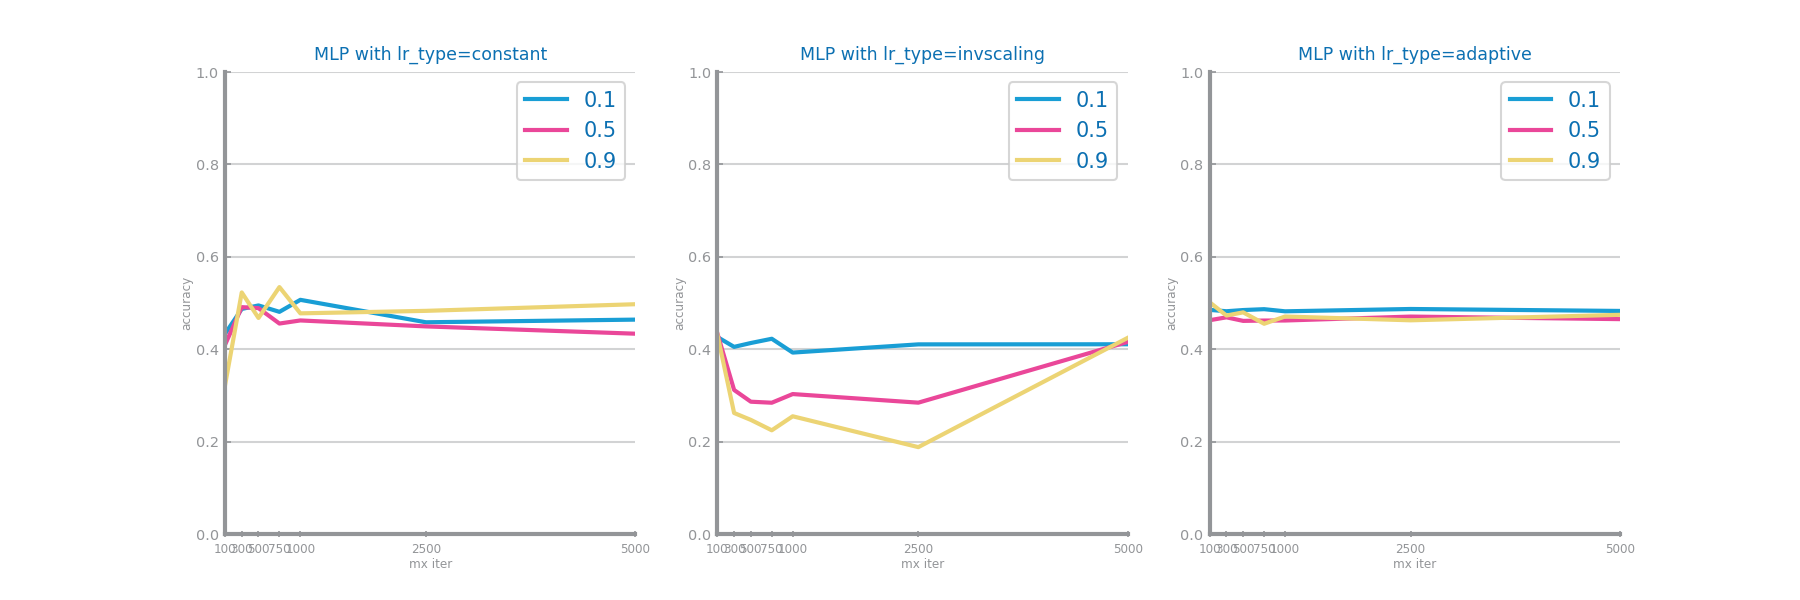
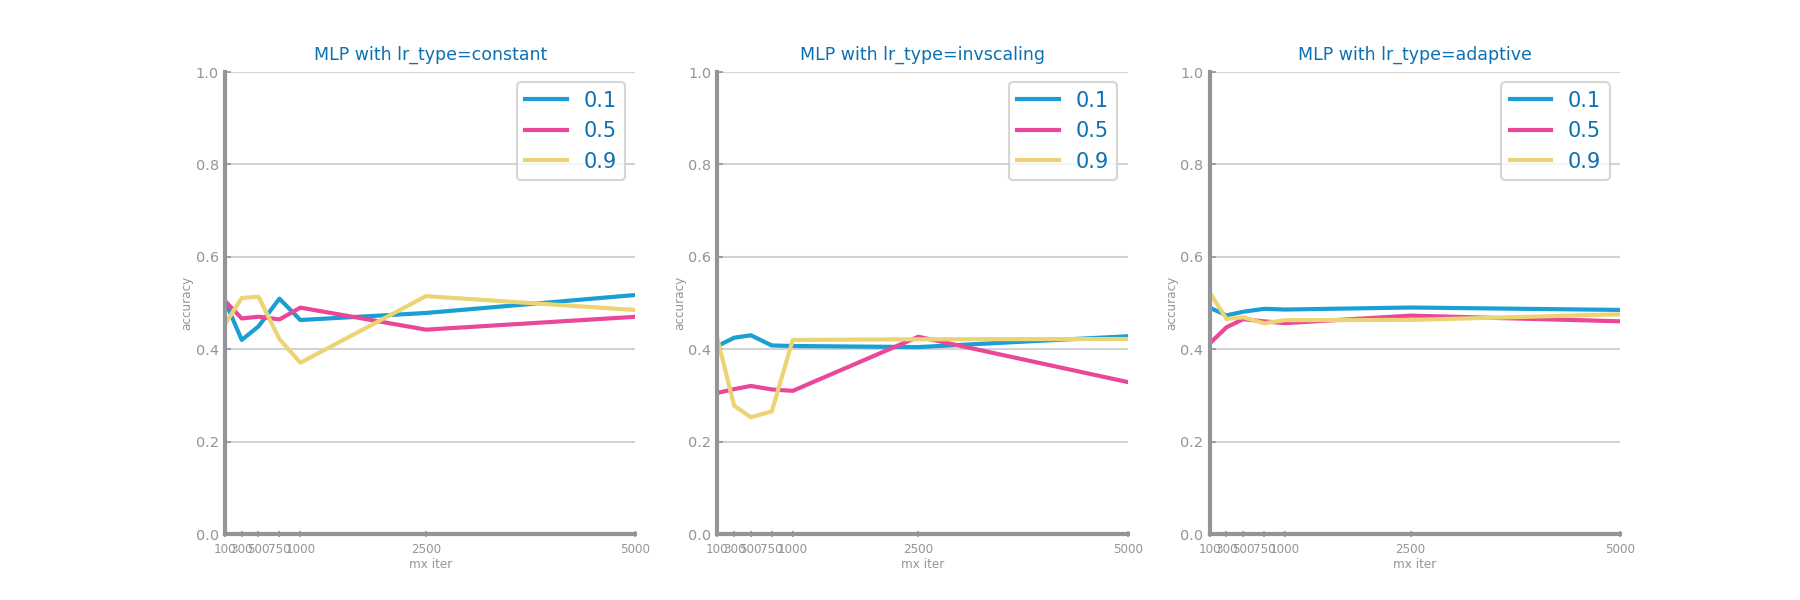
NN

diff --git a/NN.py b/NN.py
@@ -2,12 +2,19 @@ from numpy import ndarray
 from pandas import DataFrame, read_csv, unique
 from matplotlib.pyplot import figure, subplots, savefig, show
 from sklearn.neural_network import MLPClassifier
-from ds_charts import plot_evaluation_results, multiple_line_chart, horizontal_bar_chart, HEIGHT
+from ds_charts import plot_evaluation_results, multiple_line_chart, horizontal_bar_chart, HEIGHT, plot_overfitting_study
 from sklearn.metrics import accuracy_score
 
-file_tag = 'diabetic'
-filename = 'data/Balancing/diabetic_undersample'
-target = 'readmitted'
+dataset = 'drought'
+
+if dataset == 'diabetic':
+    file_tag = 'diabetic'
+    filename = 'data/Balancing/diabetic_undersample'
+    target = 'readmitted'
+else:
+    file_tag = 'drought'
+    filename = 'data/Balancing/drought_undersample'
+    target = 'class'
 
 train: DataFrame = read_csv(f'{filename}_train.csv')
 trnY: ndarray = train.pop(target).values
@@ -35,6 +42,7 @@ for k in range(len(lr_type)):
     for lr in learning_rate:
         yvalues = []
         for n in max_iter:
+            print(n)
             mlp = MLPClassifier(activation='logistic', solver='sgd', learning_rate=d,
                                 learning_rate_init=lr, max_iter=n, verbose=False)
             mlp.fit(trnX, trnY)
@@ -50,3 +58,27 @@ for k in range(len(lr_type)):
 savefig(f'images/MLP/{file_tag}_mlp_study.png')
 show()
 print(f'Best results with lr_type={best[0]}, learning rate={best[1]} and {best[2]} max iter, with accuracy={last_best}')
+
+prd_trn = best_model.predict(trnX)
+prd_tst = best_model.predict(tstX)
+plot_evaluation_results(labels, trnY, prd_trn, tstY, prd_tst)
+savefig(f'images/MLP/{file_tag}_mlp_best.png')
+show()
+
+
+
+lr_type = 'adaptive'
+lr = 0.9
+eval_metric = accuracy_score
+y_tst_values = []
+y_trn_values = []
+for n in max_iter:
+    mlp = MLPClassifier(activation='logistic', solver='sgd', learning_rate=lr_type, learning_rate_init=lr, max_iter=n, verbose=False)
+    mlp.fit(trnX, trnY)
+    prd_tst_Y = mlp.predict(tstX)
+    prd_trn_Y = mlp.predict(trnX)
+    y_tst_values.append(eval_metric(tstY, prd_tst_Y))
+    y_trn_values.append(eval_metric(trnY, prd_trn_Y))
+plot_overfitting_study(max_iter, y_trn_values, y_tst_values, name=f'NN_lr_type={lr_type}_lr={lr}', xlabel='nr episodes', ylabel=str(eval_metric))
+savefig(f'images/MLP/{file_tag}_overfitting.png')
+show()
